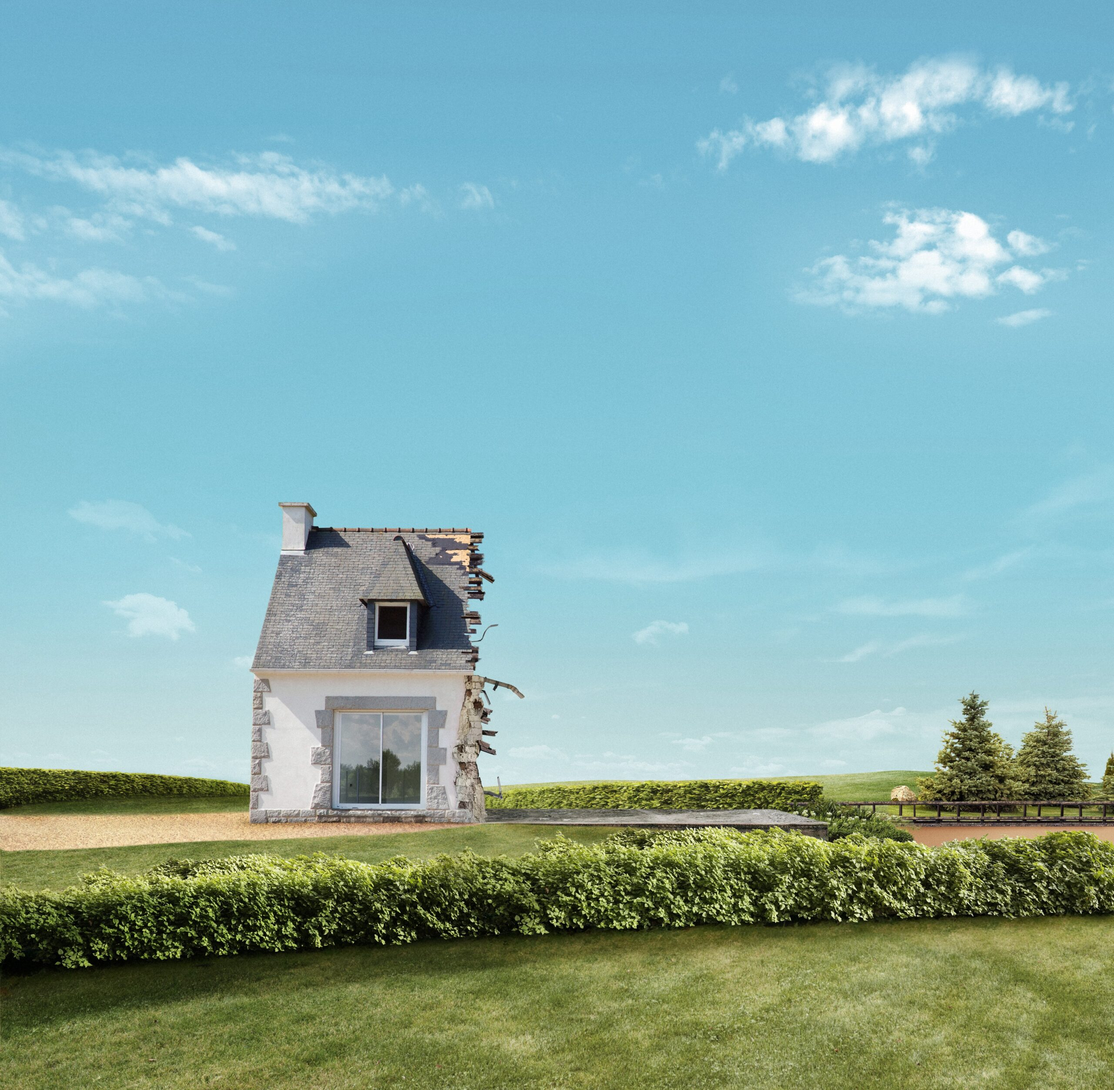
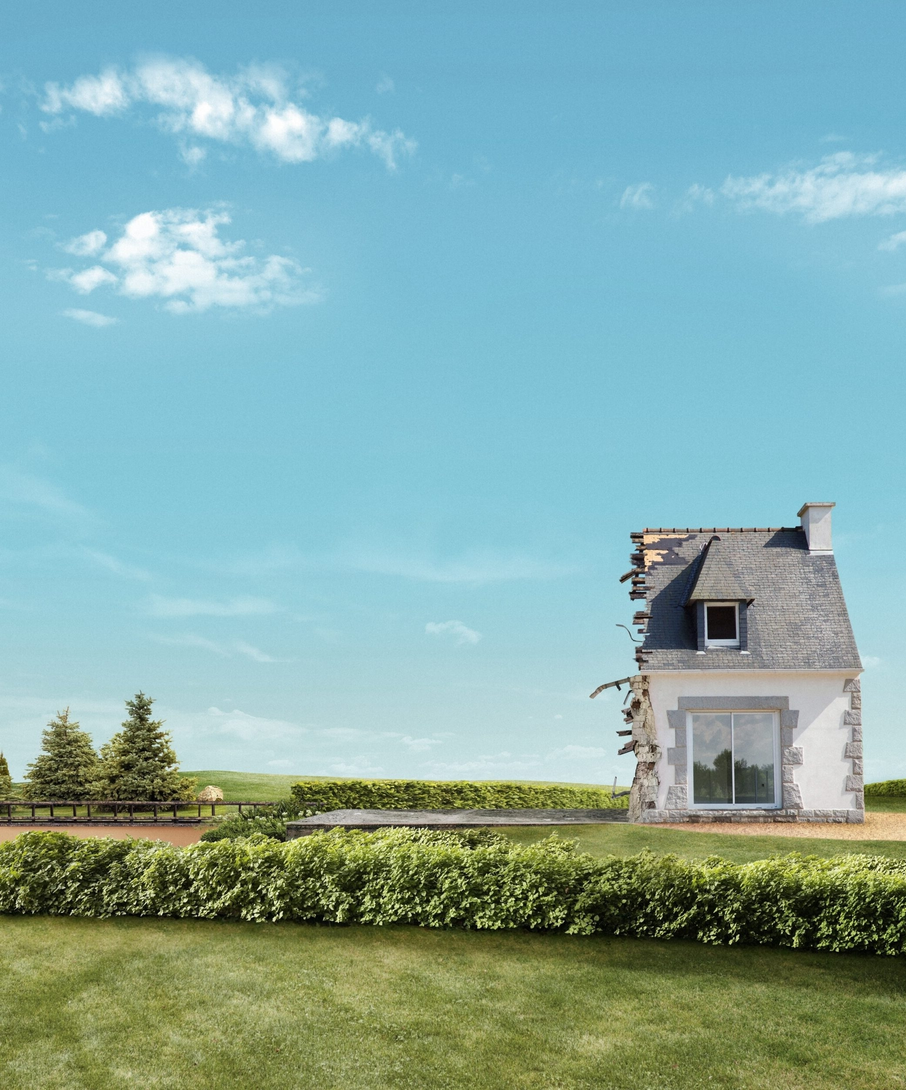
WIP - 2 more section responsive not done

diff --git a/src/app/page.tsx b/src/app/page.tsx
@@ -1,56 +1,215 @@
 import Image from "next/image";
 import Button from "./_components/Navigation/Button";
+import Logo from "./_components/Navigation/Logo";
 
 export default function Home() {
   return (
     <main className="bg-[#EEEEEE]">
-      <section className="lg:container lg:mx-auto lg:px-4 pt-20 h-screen ">
-        <div className="grid grid-cols-7 grid-rows-7 w-full h-full relative">
-          <div className="col-span-7 col-start-1 row-start-1 row-span-4 relative">
-            <div
-              className="bg-[length:270%] md:bg-[length:190%] lg:bg-[length:150%] xl:bg-[length:120%] 2xl:bg-[length:100%] w-full h-full"
-              style={{
-                backgroundImage: "url(./../images/hh.jpg)",
-                backgroundPosition: "55% 66%",
-                transform: "scaleX(-1)",
-              }}
-            ></div>
-            <div className="bg-black absolute inset-0 opacity-20"></div>
-            <div className="absolute inset-0 flex flex-col justify-between p-10 [text-shadow:_0_1px_0_rgb(0_0_0_/_12%)]">
-              <h6 className="text-white font-bold md:text-5xl text-2xl">
-                Pour réduire ma consommation d&apos;énergie, pas besoin de
-                diviser ma maison !
-              </h6>
-              <ul className="text-white text-base md:text-xl font-bold p-2 md:p-8 space-y-2">
-                <li className="flex items-center gap-2 md:gap-4">
-                  <Image
-                    width="20"
-                    height="20"
-                    src="/images/verifier.png"
-                    alt=""
-                    className="w-4 md:w-6"
-                  />
-                  Offre en exclu sur le web !
-                </li>
-                <li className="flex items-center gap-2 md:gap-4">
-                  <Image
-                    width="20"
-                    height="20"
-                    src="/images/verifier.png"
-                    alt=""
-                    className="w-4 md:w-6"
-                  />
-                  Rendez-vous le 4 mars pour en savoir plus !
-                </li>
-              </ul>
-              <Button
-                content="Je veux être appelé !"
-                className="w-8/12 self-center md:self-start md:w-fit text-sm md:text-base"
-              />
+      <section className="lg:container lg:mx-auto lg:px-4 flex flex-col space-y-8">
+        <div
+          className="bg-[length:250%] md:bg-[length:120%] lg:bg-[length:120%] xl:bg-[length:100%] "
+          style={{
+            backgroundImage: "url(./../images/hh.jpg)",
+            backgroundPosition: "68% 66%",
+          }}
+        >
+          <div className="bg-gray-700/20 p-5 md:p-8 py-8 flex flex-col gap-4 [text-shadow:_0_1px_0_rgb(0_0_0_/_15%)] ">
+            <h6 className="text-white font-bold md:text-5xl text-2xl w-5/6 md:w-8/12">
+              Pour réduire ma consommation d&apos;énergie, pas besoin de diviser
+              ma maison !
+            </h6>
+            <ul className="text-white text-base md:text-xl font-bold md:p-8 space-y-2 w-5/6">
+              <li className="flex items-start gap-2 md:gap-4">
+                <Image
+                  width="20"
+                  height="20"
+                  src="/images/verifier.png"
+                  alt=""
+                  className="w-4 md:w-6 pt-1"
+                />
+                Prix cassé
+              </li>
+              <li className="flex items-start gap-2 md:gap-4">
+                <Image
+                  width="20"
+                  height="20"
+                  src="/images/verifier.png"
+                  alt=""
+                  className="w-4 md:w-6 pt-1"
+                />
+                Pompe à chaleur air/eau à partir de 1490€*
+              </li>
+              <li className="flex items-start gap-2 md:gap-4">
+                <Image
+                  width="20"
+                  height="20"
+                  src="/images/verifier.png"
+                  alt=""
+                  className="w-4 md:w-6 pt-1"
+                />
+                Fournie posée par un professionnel RGE
+              </li>
+            </ul>
+            <div className="md:pl-8 place-self-center md:place-self-start">
+              <Button content="Je veux être appelé !" />
+            </div>
+          </div>
+        </div>
+        <div className="bg-white items-center flex w-full h-auto">
+          <Image
+            width={1000}
+            height={1000}
+            src={"/images/pompe-chaleur.jpg"}
+            alt="heat pump"
+            className="h-full md:block hidden w-1/3 object-cover"
+          />
+          <div className="p-5 md:p-8 flex flex-col items-center justify-between h-full md:w-2/3 w-full gap-8">
+            <div className="justify-center flex flex-col items-center space-y-2">
+              <h3 className="text-3xl font-semi text-center">Découvrir</h3>
+              <div className="flex flex-col">
+                <h6 className="text-2xl font-extrabold text-center">
+                  la pompe à chaleur Air / Eau
+                </h6>
+              </div>
+            </div>
+            <div className="flex w-full flex-wrap  items-start justify-between gap-4">
+              <div className=" items-center justify-center gap-2 w-full flex flex-col text-gray-700 text-center p-2 flex-1 min-w-32">
+                <img
+                  width="50"
+                  height="50"
+                  src="../images/temperature.svg"
+                  alt="temperature--v1"
+                />
+                <div>
+                  <p className="font-bold text-lg">Pour réduire</p>
+                  <p className="text-sm">ma facture d’énergie</p>
+                </div>
+              </div>
+              <div className="items-center justify-center gap-2  flex flex-col text-gray-700 text-center p-2 flex-1 min-w-32">
+                <img
+                  width="50"
+                  height="50"
+                  src="../images/wallet.svg"
+                  alt="temperature--v1"
+                />
+                <div>
+                  <p className="font-bold text-lg">Pour valoriser</p>
+                  <p className="text-sm">mon logement</p>
+                </div>
+              </div>
+              <div className=" items-center justify-center gap-2  flex flex-col text-gray-700 text-center p-2 flex-1 min-w-32">
+                <img
+                  width="50"
+                  height="50"
+                  src="../images/house.svg"
+                  alt="temperature--v1"
+                />
+                <div>
+                  <p className="font-bold text-lg">Pour améliorer</p>
+                  <p className="text-sm">mon confort</p>
+                </div>
+              </div>
+              <div className=" items-center justify-center gap-2  flex flex-col text-gray-700 text-center p-2 flex-1 min-w-32">
+                <img
+                  width="50"
+                  height="50"
+                  src="../images/carbon.svg"
+                  alt="temperature--v1"
+                />
+                <div>
+                  <p className="font-bold text-lg">Pour diminuer</p>
+                  <p className="text-sm">mon empreinte carbone</p>
+                </div>
+              </div>
+            </div>
+            <Button content="En savoir plus" />
+          </div>
+        </div>
+
+        <div
+          className=" w-full h-auto bg-[length:100%]  "
+          style={{
+            backgroundImage: "url(./../images/instalation.jpeg)",
+            backgroundRepeat: "no reapeat",
+            backgroundSize: "cover",
+          }}
+        >
+          <div className="flex flex-col bg-black/20 p-8 gap-4">
+            <h6 className="  w-full text-center text-white font-bold md:text-5xl text-2xl ">
+              Projet d'installation d'une pompe à chaleur
+            </h6>
+            <div className="w-full flex justify-around px-8">
+              <div className="w-1/3 flex items-start">
+                <h3
+                  className="font-semibold md:text-2xl text-gray-700 text-xl bg-white transform rotate-180 align-top text-left py-4 px-2 rounded-br-lg rounded-tr-lg  tracking-wider"
+                  style={{
+                    writingMode: "vertical-rl",
+                    textOrientation: "mixed",
+                  }}
+                >
+                  Situation
+                </h3>
+
+                <div className="space-y-8 p-8 bg-white shadow-2xl">
+                  <h6 className="text-center md:text-lg font-semibold w-2/3 ">
+                    Maison individuelle de 120 m² construite en 1979 et classée
+                    D
+                  </h6>
+                  <ul className="space-y-4 w-full">
+                    <li className="flex gap-4 items-center text-lg font-medium">
+                      <Image
+                        width={25}
+                        height={25}
+                        src={"/images/house-people.svg"}
+                        alt="couple"
+                      />
+                      <p>Couple</p>
+                    </li>
+                    <li className="flex gap-4 items-center text-lg font-medium">
+                      <Image
+                        width={25}
+                        height={25}
+                        src={"/images/wallet.svg"}
+                        alt="wallet"
+                      />
+                      <p>Revenus annuels de 31 500 €</p>
+                    </li>
+                    <li className="flex gap-4 items-center text-lg font-medium">
+                      <Image
+                        width={25}
+                        height={25}
+                        src={"/images/localisation.svg"}
+                        alt="localisation"
+                      />
+                      <p>Habitant en Charente Maritimes</p>
+                    </li>
+                    <li className="flex gap-4 items-start text-lg font-medium">
+                      <Image
+                        width={25}
+                        height={25}
+                        src={"/images/category.svg"}
+                        alt="category"
+                      />
+                      <div className="flex flex-col">
+                        <p>Catégorie de ressources* : revenus très modestes</p>
+                        <p className="text-xs font-light italic">
+                          *barême MaPrimeRénov'
+                        </p>
+                      </div>
+                    </li>
+                  </ul>
+                </div>
+              </div>
+              <div className="w-1/3  space-y-8 justify-center items-center flex flex-col px-8 py-16">
+                <h3 className="font-semibold md:text-2xl text-gray-700 text-xl text-center">
+                  Coût d'installation
+                </h3>
+              </div>
             </div>
           </div>
         </div>
       </section>
+      <section className="h-screen"></section>
     </main>
   );
 }

diff --git a/src/app/_components/Navigation/index.tsx b/src/app/_components/Navigation/index.tsx
@@ -10,7 +10,7 @@ export default function Navbar() {
   const currentRoute = usePathname();
 
   return (
-    <div className="fixed h-20 w-full top-0 z-40 bg-white shadow-sm">
+    <div className="sticky h-20 w-full top-0 z-40 bg-white shadow-sm">
       <div className="container mx-auto px-4 h-full">
         <div className="flex justify-between items-center h-full">
           <div className="w-5 h-4 black lg:hidden"></div>

diff --git a/src/app/_components/PACbutton.tsx b/src/app/_components/PACbutton.tsx
@@ -2,7 +2,7 @@ import Button from "./Navigation/Button";
 
 export default function PACbutton() {
   return (
-    <div className="fixed bottom-4 md:bottom-8 md:right-8 right-4">
+    <div className="fixed bottom-4 md:bottom-8 md:right-8 right-4 z-50">
       <div className="relative flex">
         <Button content="Je veux ma PAC" className="relative" />
         <div className="absolute right-3">
